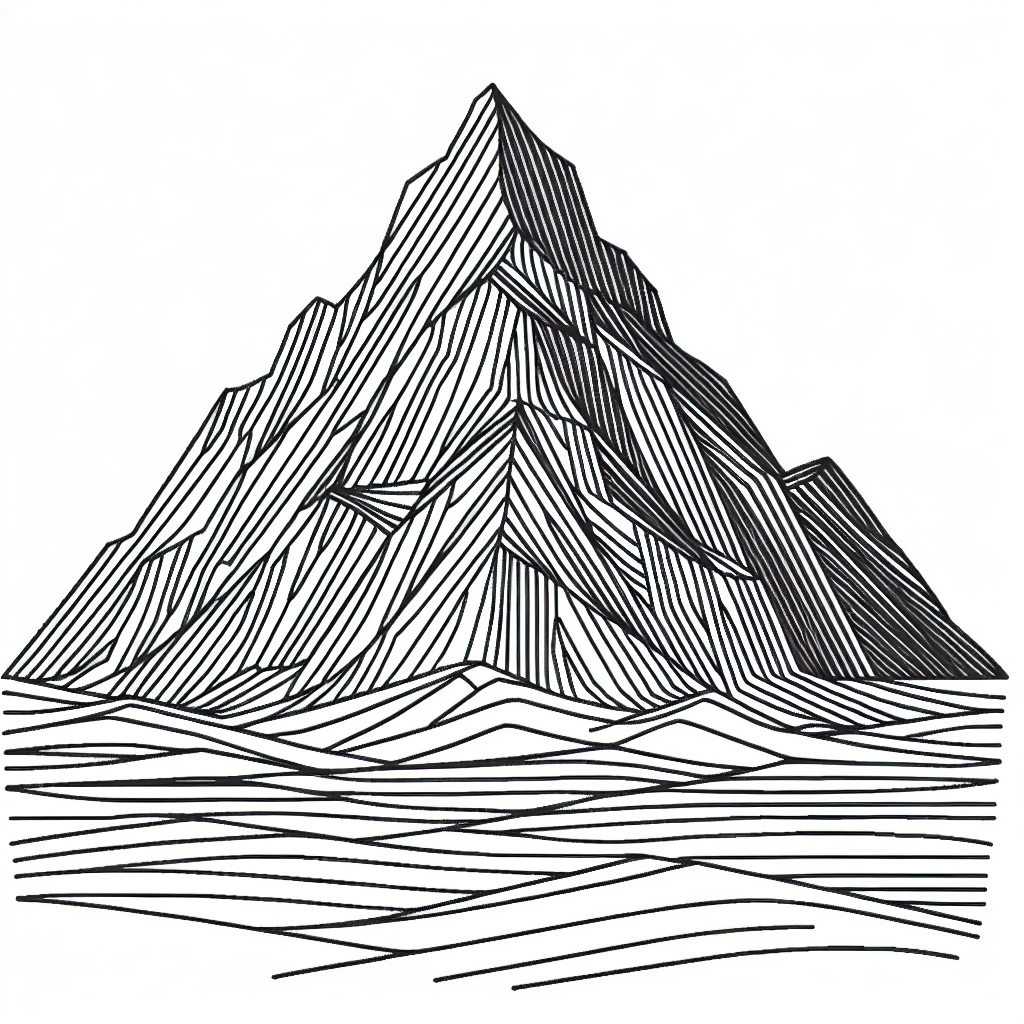
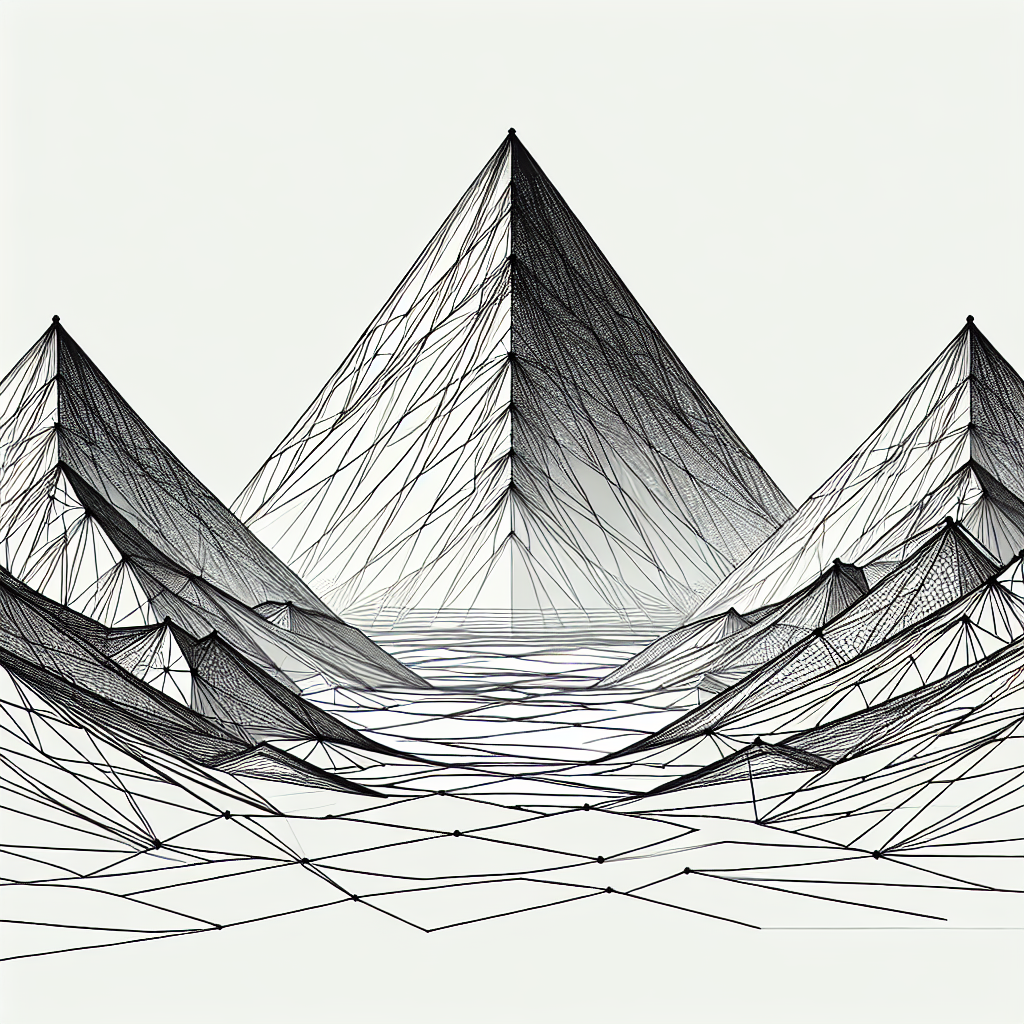
updates

diff --git a/app.py b/app.py
@@ -1,7 +1,9 @@
 from utils.gpt_utils import generate_prompt_from_chatgpt
 from utils.dalle_utils import generate_image_from_dalle
+from utils.conversion_prep_utils import preprocess_image_to_black_and_white
 import requests
 import os
+
 
 def get_next_filename(directory: str, base_name: str, extension: str) -> str:
     """
@@ -45,19 +47,35 @@ if __name__ == "__main__":
 
     if image_url:
         try:
-            # Ensure the 'static' directory exists
-            directory = "static/generated"
-            if not os.path.exists(directory):
-                os.makedirs(directory)
+            # Ensure the 'static/generated' and 'static/prepared' directories exist
+            generated_dir = "static/generated"
+            prepared_dir = "static/prepared"
+            if not os.path.exists(generated_dir):
+                os.makedirs(generated_dir)
+            if not os.path.exists(prepared_dir):
+                os.makedirs(prepared_dir)
 
-            # Get the next available filename
-            filename = get_next_filename(directory, "generated_image", ".png")
+            # Get the next available filename for the original image
+            generated_filename = get_next_filename(generated_dir, "generated_image", ".png")
 
-            # Download and save the image
+            # Download and save the original image
             img_data = requests.get(image_url).content
-            with open(filename, "wb") as handler:
+            with open(generated_filename, "wb") as handler:
                 handler.write(img_data)
-            print(f"Image saved as {filename}")
+            print(f"Original image saved as {generated_filename}")
+            
+            # Preprocess the image to ensure it's pure black and white
+            bw_image = preprocess_image_to_black_and_white(image_url)
+            
+            # Get the next available filename for the processed image
+            prepared_filename = get_next_filename(prepared_dir, "prepared_image", ".png")
+
+            # Save the processed image
+            if bw_image:
+                bw_image.save(prepared_filename)
+                print(f"Processed image saved as {prepared_filename}")
+            else:
+                print("Failed to process the image to black and white.")
         except requests.exceptions.RequestException as e:
             print(f"Failed to download the image: {e}")
     else:

diff --git a/utils/gpt_utils.py b/utils/gpt_utils.py
@@ -24,10 +24,13 @@ def generate_prompt_from_chatgpt(prompt: str) -> str:
     try:
         model = os.getenv("OPENAI_MODEL")
         completion = client.chat.completions.create(
-            model=model,  
+            model='gpt-4o-mini',  
             messages=[
                 {"role": "system", "content": (
-                 "You are a creative assistant that specializes in generating simple, clean, and easy-to-draw descriptions for visual art. Your task is to take prompts provided by users and transform them into clear, straightforward descriptions that can guide image generation tools to produce simple, minimalistic artwork. Make sure the prompts avoid unnecessary details and focus on basic shapes, lines, and forms. The goal is to create drawable images that are not overly complex, ensuring they can be easily sketched or drawn."
+                 "You are a creative assistant that specializes in generating simple, clean, and easy-to-draw descriptions for visual art"
+                 "you recieve a prmpt and return a concept that can be drawn by dall-e"
+                 "Return clear, straightforward descriptions that can guide image generation tools to produce simple, minimalistic artwork"
+                 "Make sure the prompts avoid unnecessary details and focus on basic shapes, lines, and forms. The goal is to create drawable images that are not overly complex, ensuring they can be easily sketched or drawn. do not give implamentation advice such as shading etc"
                    )},
                 {"role": "user", "content": prompt}
             ]

diff --git a/utils/dalle_utils.py b/utils/dalle_utils.py
@@ -27,7 +27,7 @@ def generate_image_from_dalle(prompt: str):
             prompt = prompt[:800]
         
         response = client.images.generate(
-            prompt=prompt + ' the output should be 2 dimensional clean line drawings with medium to low complexity. the lines should be pure black and the background solid white. there should be no infill ',
+            prompt= 'make me a medium to low complexity line drawing of' + prompt + ' the output should be clean, 2 dimensional fine line drawings with medium to low complexity. the lines should be pure black. the background solid white with empty space. ',
             model="dall-e-3",
             # size="256x256",  # Increased size for better quality
             quality="standard",    # Assuming 'high' is supported (check OpenAI docs for exact parameter usage)
